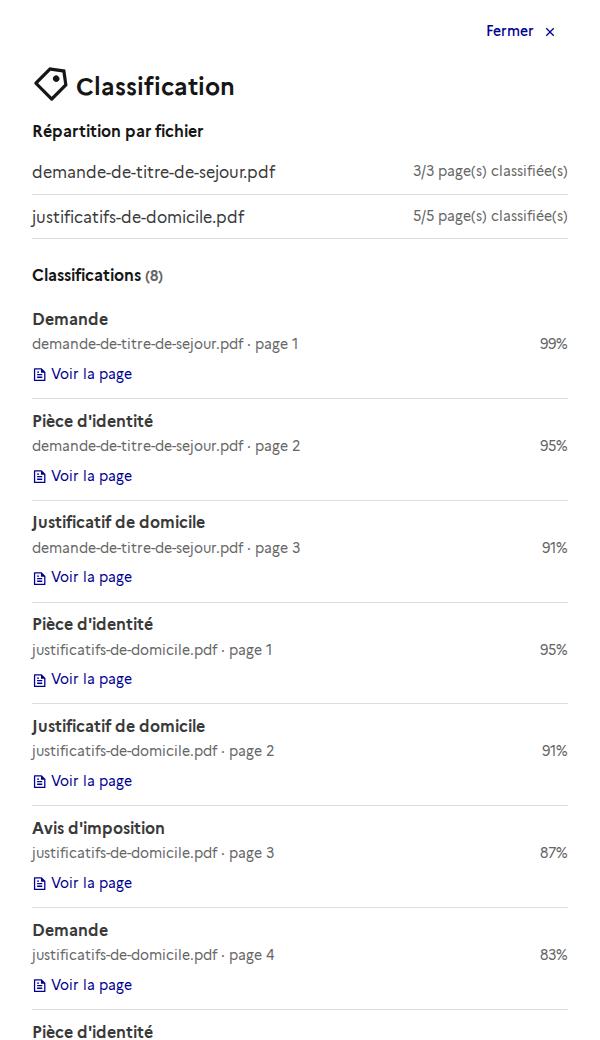
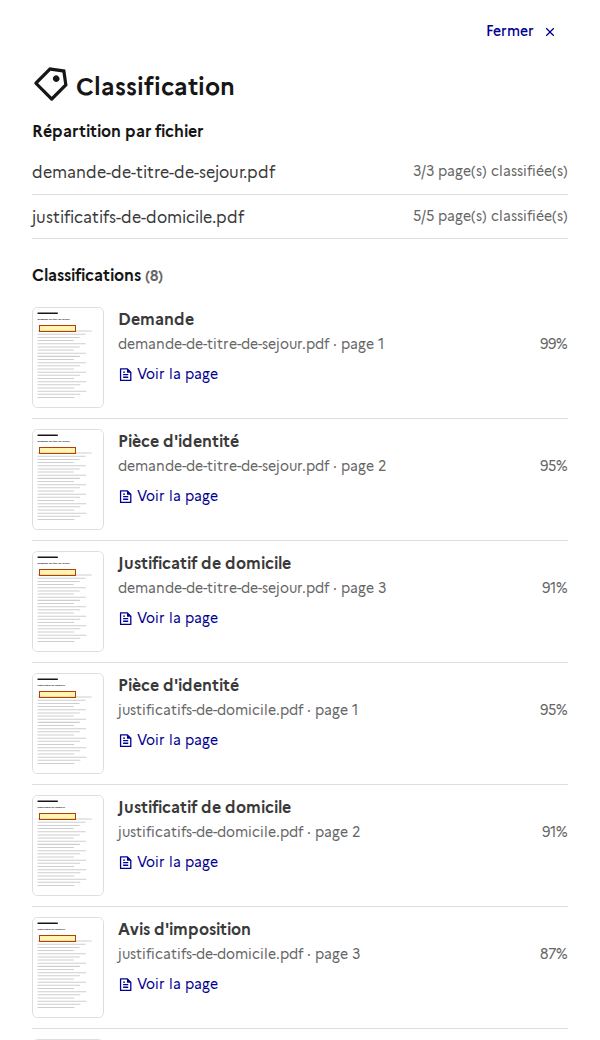
feat(dossier): vignette de la page dans la liste des résultats

diff --git a/frontend/src/components/dossiers/PageThumbnail.vue b/frontend/src/components/dossiers/PageThumbnail.vue
@@ -1,0 +1,120 @@
+<script setup lang="ts">
+/**
+ * Vignette d'une page de document avec, si elles sont fournies, les zones du résultat encadrées. La capture est
+ * chargée quand la vignette devient visible (une liste en affiche plusieurs à la fois) : le cookie de session
+ * impose un `fetch` avec identifiants, pas un simple `<img src>`.
+ */
+import { onBeforeUnmount, onMounted, ref } from "vue";
+
+import { API_BASE_URL } from "@/utils/api";
+
+const props = defineProps<{
+  dossierId: string;
+  documentId: string;
+  pageId: string;
+  boundingBoxes?: { id: string; xMin: number; yMin: number; xMax: number; yMax: number }[];
+}>();
+
+const root = ref<HTMLElement | null>(null);
+const imageUrl = ref<string | null>(null);
+const failed = ref(false);
+let observer: IntersectionObserver | undefined;
+let destroyed = false;
+
+async function load() {
+  try {
+    const response = await fetch(
+      `${API_BASE_URL}/api/dossiers/${props.dossierId}/documents/${props.documentId}/pages/${props.pageId}/screenshot`,
+      { credentials: "include" },
+    );
+    if (!response.ok) throw new Error(String(response.status));
+    const url = URL.createObjectURL(await response.blob());
+    if (destroyed) URL.revokeObjectURL(url);
+    else imageUrl.value = url;
+  } catch {
+    failed.value = true;
+  }
+}
+
+onMounted(() => {
+  if (!root.value || typeof IntersectionObserver === "undefined") return void load();
+  observer = new IntersectionObserver((entries) => {
+    if (!entries.some((e) => e.isIntersecting)) return;
+    observer?.disconnect();
+    load();
+  });
+  observer.observe(root.value);
+});
+
+onBeforeUnmount(() => {
+  destroyed = true;
+  observer?.disconnect();
+  if (imageUrl.value) URL.revokeObjectURL(imageUrl.value);
+});
+</script>
+
+<template>
+  <div ref="root" class="page-thumbnail" :class="{ 'page-thumbnail--empty': !imageUrl }">
+    <div v-if="imageUrl" class="page-thumbnail__wrapper">
+      <img :src="imageUrl" alt="" class="page-thumbnail__image" />
+      <span
+        v-for="box in boundingBoxes"
+        :key="box.id"
+        class="page-thumbnail__box"
+        :style="{
+          left: `${box.xMin * 100}%`,
+          top: `${box.yMin * 100}%`,
+          width: `${(box.xMax - box.xMin) * 100}%`,
+          height: `${(box.yMax - box.yMin) * 100}%`,
+        }"
+      />
+    </div>
+    <VIcon v-else name="ri-file-text-line" class="page-thumbnail__placeholder" :class="{ 'page-thumbnail__placeholder--failed': failed }" />
+  </div>
+</template>
+
+<style scoped>
+.page-thumbnail {
+  flex: 0 0 auto;
+  width: 4.5rem;
+  aspect-ratio: 1 / 1.414;
+  border: 1px solid var(--border-default-grey);
+  border-radius: 0.35rem;
+  overflow: hidden;
+  background: var(--background-alt-grey);
+}
+
+.page-thumbnail--empty {
+  display: flex;
+  align-items: center;
+  justify-content: center;
+}
+
+.page-thumbnail__placeholder {
+  color: var(--text-mention-grey);
+}
+
+.page-thumbnail__placeholder--failed {
+  opacity: 0.4;
+}
+
+.page-thumbnail__wrapper {
+  position: relative;
+  width: 100%;
+  height: 100%;
+}
+
+.page-thumbnail__image {
+  display: block;
+  width: 100%;
+  height: 100%;
+  object-fit: cover;
+  object-position: top;
+}
+
+.page-thumbnail__box {
+  position: absolute;
+  border: 1px solid #b34000;
+  background: #ffd9004d;
+}
+</style>

diff --git a/frontend/src/components/dossiers/DossierResultsDetail.vue b/frontend/src/components/dossiers/DossierResultsDetail.vue
@@ -1,6 +1,7 @@
 <script setup lang="ts">
 import { computed, onMounted, ref, watch } from "vue";
 
+import PageThumbnail from "@/components/dossiers/PageThumbnail.vue";
 import type { ChatWindowSource } from "@/components/ChatWindow.vue";
 import { type ResultKind, type ResultRow, useDossierResults } from "@/composables/useDossierResults";
 
@@ -71,18 +72,26 @@ watch(pageIndex, (index) => loadRows(props.kind, index + 1));
 
       <ul v-else class="results-detail__rows" :aria-busy="isLoading">
         <li v-for="row in rows" :key="row.id" class="results-detail__row">
-          <div class="results-detail__row-main">
-            <span v-if="!isLabel" class="fr-text--sm results-detail__muted">{{ row.name }}</span>
-            <span class="results-detail__value">{{ row.value }}</span>
+          <PageThumbnail
+            :dossier-id="dossierId"
+            :document-id="row.documentId"
+            :page-id="row.pages[0].id"
+            :bounding-boxes="row.boundingBoxes.filter((b) => b.pageId === row.pages[0].id)"
+          />
+          <div class="results-detail__row-body">
+            <div class="results-detail__row-main">
+              <span v-if="!isLabel" class="fr-text--sm results-detail__muted">{{ row.name }}</span>
+              <span class="results-detail__value">{{ row.value }}</span>
+            </div>
+            <div class="fr-text--sm results-detail__muted results-detail__row-meta">
+              <span>{{ row.documentName }} · {{ pagesLabel(row) }}</span>
+              <span v-if="row.confidence !== undefined">{{ Math.round(row.confidence * 100) }}%</span>
+            </div>
+            <button type="button" class="fr-link fr-text--sm results-detail__view" @click="viewPage(row)">
+              <VIcon name="ri-file-text-line" scale="0.8" />
+              Voir la page
+            </button>
           </div>
-          <div class="fr-text--sm results-detail__muted results-detail__row-meta">
-            <span>{{ row.documentName }} · {{ pagesLabel(row) }}</span>
-            <span v-if="row.confidence !== undefined">{{ Math.round(row.confidence * 100) }}%</span>
-          </div>
-          <button type="button" class="fr-link fr-text--sm results-detail__view" @click="viewPage(row)">
-            <VIcon name="ri-file-text-line" scale="0.8" />
-            Voir la page
-          </button>
         </li>
       </ul>
 
@@ -133,6 +142,17 @@ watch(pageIndex, (index) => loadRows(props.kind, index + 1));
 .results-detail__file-name {
   margin: 0;
   overflow-wrap: anywhere;
+}
+
+.results-detail__row {
+  display: flex;
+  align-items: flex-start;
+  gap: 0.85rem;
+}
+
+.results-detail__row-body {
+  flex: 1;
+  min-width: 0;
 }
 
 .results-detail__row-main {

diff --git a/docs/frontend/resultats-du-dossier/README.md b/docs/frontend/resultats-du-dossier/README.md
@@ -14,14 +14,14 @@ Dans la page d'un dossier, les cartes **Classification** et **Entités** ne donn
 ![Détail de la classification](02-detail-classification.png)
 
 - **Répartition par fichier** : pour chaque fichier, les pages classifiées sur ses pages totales. Un fichier ignoré ou en échec se repère ici.
-- **Liste** : une ligne par page, avec le label, le fichier, le numéro de page et la confiance.
+- **Liste** : une ligne par page, avec une vignette de la page, le label, le fichier, le numéro de page et la confiance.
 
 ## Le détail des entités
 
 ![Détail des entités](03-detail-entites.png)
 
 - **Répartition par fichier** : le nombre d'entités et de pages de chaque fichier.
-- **Liste** : le nom de l'entité, sa valeur, le fichier, les pages qu'elle couvre (une entité peut s'étendre sur plusieurs pages) et la confiance.
+- **Liste** : une vignette de la page (avec la zone de l'entité encadrée), le nom de l'entité, sa valeur, le fichier, les pages qu'elle couvre (une entité peut s'étendre sur plusieurs pages) et la confiance.
 
 La liste est **paginée par 10** :
 
